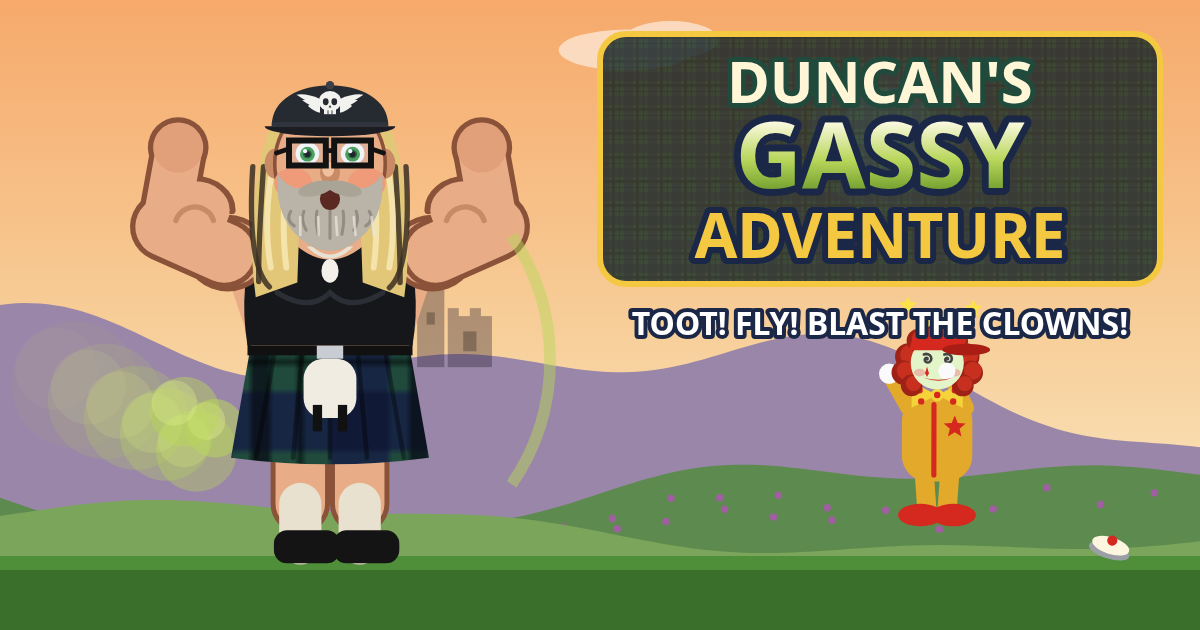
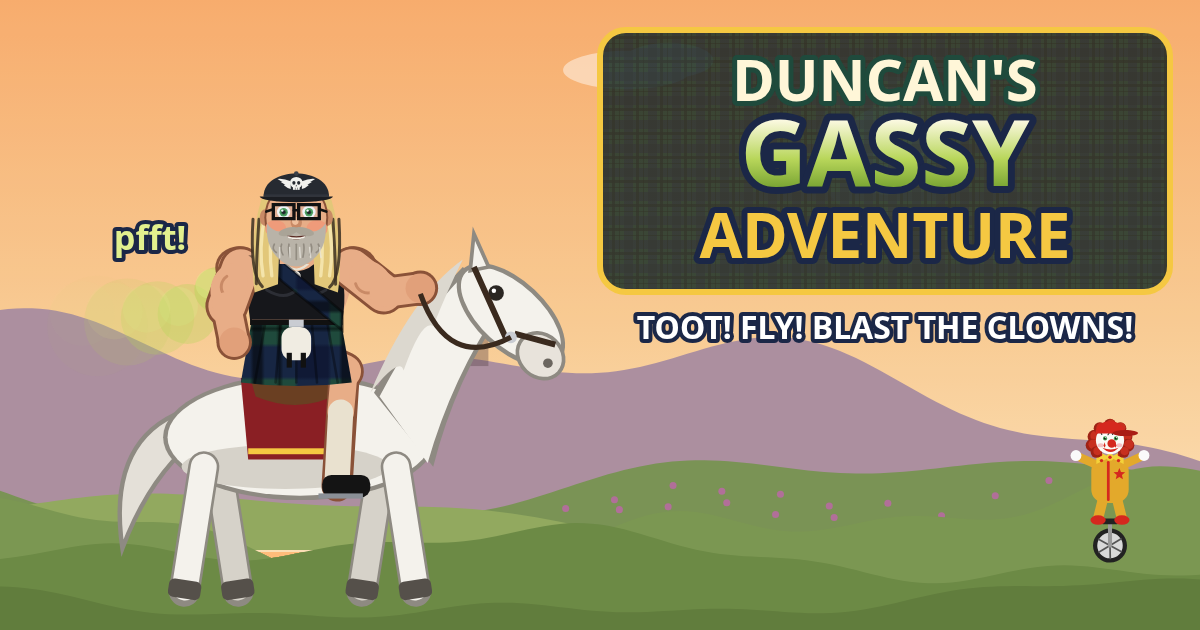
New cover + title art: drawn Duncan on his white horse in Black Watch kilt and tartan sash, highland sunset; sw v4

diff --git a/index.html b/index.html
@@ -84,7 +84,8 @@ function arm(g,sx,sy,a1,a2,side){const L1=11,L2=10,ex=sx+Math.sin(a1)*L1*side,ey
 function drawDuncan(g,x,y,s,o){o=o||{};const t=o.t||0,ph=o.run||0;g.save();g.translate(x,y);g.scale(s*(o.dir||1),s);
  const sw=o.air?0:Math.sin(ph),bob=o.air?0:Math.abs(Math.cos(ph))*1.5;g.translate(0,-bob);
  // legs
- const legs=[[-4.5,sw],[4.5,-sw]];
+ const legs=o.ride?[]:[[-4.5,sw],[4.5,-sw]];
+ if(o.ride){limb(g,2,-22,13,-17,10.5,OUTL);limb(g,13,-17,11,14,8.4,OUTL);limb(g,2,-22,13,-17,9,SKIN);limb(g,13,-17,12,-6,7.2,SKIN);limb(g,12,-6,11,13,6.8,'#e9e1cf');g.fillStyle='#141414';rrect(g,7,11,13,6,2.5);g.fill();g.fillStyle='#8a8f96';g.fillRect(6,16,12,1.4)}
  for(const [lx,a0] of legs){let a=o.air?(o.hover?.25*Math.sin(t*14+lx):.35*(lx>0?1:-1)):a0*.55;const kx=lx+Math.sin(a)*9,ky=-16+Math.cos(a)*9,fx=kx+Math.sin(a*.4)*8,fy=ky+8;
   limb(g,lx,-16,kx,ky,9,OUTL);limb(g,lx,-16,kx,ky,7.5,SKIN);limb(g,kx,ky,fx,fy-2,6.4,'#e9e1cf');g.fillStyle='#141414';rrect(g,fx-4,fy-4,10,5,2);g.fill()}
  // kilt (Black Watch tartan)
@@ -106,7 +107,9 @@ function drawDuncan(g,x,y,s,o){o=o||{};const t=o.t||0,ph=o.run||0;g.save();g.tra
   for(const d of [-1,1]){limb(g,d*16,-45,d*25,-49,10.6,OUTL);limb(g,d*25,-49,d*23,-60,8.6,OUTL);circ(g,d*23,-61,4.6,OUTL);g.strokeStyle=OUTL;g.lineWidth=1.2;g.beginPath();g.ellipse(d*20.5,-51.5,5.6,4.6,0,Math.PI,TAU);g.stroke()}
   for(const d of [-1,1]){limb(g,d*16,-45,d*25,-49,9,SKIN);ell(g,d*20.5,-51.5,5.3,4.4,SKIN);limb(g,d*25,-49,d*23,-60,7,SKIN);circ(g,d*23,-61,3.8,'#e1a07a');g.strokeStyle=SKD;g.lineWidth=.8;g.beginPath();g.arc(d*20.5,-49,3,Math.PI*1.1,Math.PI*1.9);g.stroke()}
  }else if(o.air&&o.hover){arm(g,-15,-45,1.9+Math.sin(t*20)*.3,2.4,-1);arm(g,15,-45,1.9+Math.sin(t*20+1)*.3,2.4,1)}
+ else if(o.ride){arm(g,-15,-45,.35,-.2,-1);arm(g,15,-45,.9,1.7,1)}
  else{arm(g,-15,-45,-sw*.7+.15,-sw*.7-.9,-1);arm(g,15,-45,sw*.7+.15,sw*.7-.9,1)}
+ if(o.sash){g.save();g.fillStyle=tartan(g);g.beginPath();g.moveTo(-12,-48);g.lineTo(-5.5,-48);g.lineTo(12.5,-33);g.lineTo(12.5,-28);g.closePath();g.fill();g.strokeStyle='rgba(0,0,0,.4)';g.lineWidth=.7;g.stroke();circ(g,-8,-46,2.2,'#c9ccd2');g.restore()}
  // neck + head
  g.fillStyle=SKIN;g.fillRect(-4.5,-52,9,6);
  drawHead(g,0,-59,9,{blink:o.blink,puff:fx2||o.puff,mouth:o.hurt?'ow':fx2?'o':o.air?'grin':'smile',hairWave:o.air?Math.sin(t*12)*3:Math.sin(ph)});
@@ -198,6 +201,36 @@ function drawBG(g,W,H,gy,cam,z,bi,t){const B=BIOMES[bi%BIOMES.length];
   const tp=520*z,to=((wo%tp)+tp)%tp;for(let x=-to;x<W+tp;x+=tp){drawTower(g,x,gy,120*z,34*z,B.night?'#2a2f42':'#5f5064');if(B.night){const fl=.6+.4*Math.sin(t*9+x);g.globalAlpha=fl;circ(g,x+17*z,gy-80*z,5*z,'#ffb347');g.globalAlpha=1}
    g.fillStyle=tartan(g);g.fillRect(x+40*z,gy-58*z,18*z,30*z)}}
 }
+
+/* White horse, side view facing right. Hooves at (x,y). */
+function drawHorse(g,x,y,s,t){t=t||0;g.save();g.translate(x,y);g.scale(s,s);const W='#f4f2ec',SH='#d6d2c9',OL='#8e8a82';
+ const step=Math.sin(t*6)*.18;
+ const leg=(lx,a,back)=>{g.save();g.translate(lx,-36);g.rotate(a);g.strokeStyle=OL;g.lineCap='round';g.lineWidth=8.4;g.beginPath();g.moveTo(0,0);g.lineTo(0,34);g.stroke();g.strokeStyle=back?SH:W;g.lineWidth=7;g.beginPath();g.moveTo(0,0);g.lineTo(0,33);g.stroke();g.fillStyle='#55504a';rrect(g,-4.4,31,8.8,5,1.5);g.fill();g.restore()};
+ leg(-22,-step,1);leg(22,step,1);
+ // tail
+ g.fillStyle='#e4e0d8';g.strokeStyle=OL;g.lineWidth=1.2;g.beginPath();g.moveTo(-34,-50);g.quadraticCurveTo(-52,-44+Math.sin(t*3)*3,-48,-14);g.quadraticCurveTo(-42,-30,-32,-40);g.closePath();g.fill();g.stroke();
+ // body
+ ell(g,0,-44,37,17,OL);ell(g,0,-44,35.8,15.8,W);ell(g,-4,-36,28,6,SH);
+ // neck + head
+ g.fillStyle=OL;g.beginPath();g.moveTo(20,-56);g.quadraticCurveTo(32,-78,44,-90);g.lineTo(56,-80);g.quadraticCurveTo(42,-60,36,-36);g.closePath();g.fill();
+ g.fillStyle=W;g.beginPath();g.moveTo(21.5,-55);g.quadraticCurveTo(33,-77,44.5,-88);g.lineTo(54.5,-80);g.quadraticCurveTo(41,-60,34.5,-37);g.closePath();g.fill();
+ ell(g,57,-77,18,9.4,OL,.75);ell(g,57,-77,16.8,8.2,W,.75);ell(g,65,-66,7.2,6.2,OL,.75);ell(g,65,-66,6.2,5.2,'#e8e3db',.75);circ(g,67,-64,1.3,'#6b665f');
+ g.fillStyle=W;g.strokeStyle=OL;g.lineWidth=1;g.beginPath();g.moveTo(46,-89);g.lineTo(47,-99);g.lineTo(51,-90);g.closePath();g.fill();g.stroke();
+ circ(g,53,-83,2.1,'#2a2622');circ(g,52.4,-83.6,.6,'#fff');
+ // mane
+ g.fillStyle='#dcd8cf';g.beginPath();g.moveTo(44,-92);g.quadraticCurveTo(30,-82,19,-56);g.quadraticCurveTo(27,-66,28,-62);g.quadraticCurveTo(33,-76,36,-74);g.quadraticCurveTo(40,-84,44,-92);g.fill();
+ // bridle + reins
+ g.strokeStyle='#3a2a1e';g.lineWidth=1.6;g.beginPath();g.moveTo(47,-90);g.lineTo(56,-70);g.moveTo(58,-72);g.lineTo(69,-69);g.stroke();circ(g,57,-71,1.6,'#c9ccd2');
+ // front legs
+ leg(-26,step,0);leg(26,-step,0);
+ // saddle + tartan blanket
+ g.fillStyle='#8a1f24';g.beginPath();g.moveTo(-16,-60);g.lineTo(14,-60);g.lineTo(12,-38);g.lineTo(-14,-38);g.closePath();g.fill();g.fillStyle='#f5c842';g.fillRect(-14,-41,26,1.6);
+ g.fillStyle='#6a3f22';g.beginPath();g.moveTo(-14,-62);g.quadraticCurveTo(0,-54,13,-63);g.lineTo(11,-56);g.quadraticCurveTo(0,-50,-12,-55);g.closePath();g.fill();
+ g.restore()}
+/* Duncan riding the white horse. Hooves at (x,y). */
+function drawRider(g,x,y,s,t,o){o=o||{};drawHorse(g,x,y,s,t);const b=Math.sin(t*6)*.8;
+ drawDuncan(g,x-1*s,y-44*s+b*s,s,{t,ride:true,sash:true,blink:o.blink,puff:o.puff,flex:o.flex,dir:1});
+ g.strokeStyle='#3a2a1e';g.lineWidth=1.4*s;g.beginPath();g.moveTo(x+(-1+15+Math.sin(.9)*11*1+Math.sin(1.7)*10)*s,y+(-44-45+Math.cos(.9)*11+Math.cos(1.7)*10+b)*s);g.quadraticCurveTo(x+40*s,y-62*s,x+57*s,y-71*s);g.stroke()}
 </script>
 <script>'use strict';
 /* ===== Duncan's Gassy Adventure ===== */
@@ -471,11 +504,11 @@ function logo(cx,y,sc){g.save();g.translate(cx,y);const s1=Math.round(30*sc),s2=
 function sceneBG(bi,gy){gy=gy||GY;const cam=T*40;drawBG(g,W,H,gy,cam,ZS,bi,T);g.fillStyle=BIOMES[bi].gr;g.fillRect(0,gy-3*ZS,W,H);g.fillStyle=BIOMES[bi].dirt;g.fillRect(0,gy+8*ZS,W,H)}
 function drawTitle(){const sc=Math.min(1.25,W/360,H/560);
  if(portrait){const top=safe.t+64;const lh=logo(W/2,top,sc);const btnH=56,gap=12,bw=Math.min(300,W-48),n=4,bTop=H-safe.b-24-n*btnH-(n-1)*gap-28;
-  const dTop=top+lh+10,dBot=bTop-14,ds=clamp((dBot-dTop)/80,1.2,4.2);const dx=W*.42,dy=dTop+(dBot-dTop)*.5+ds*38;
-  sceneBG(0,dy+2);logo(W/2,top,sc);const fl=Math.sin(T*1.3)>.7;if(fl&&Math.random()<.2)puffT(dx-ds*10,dy-ds*6,ds);drawTitlePuffs();drawDuncan(g,dx,dy,ds,{t:T,run:0,flex:fl?1:0,blink:(T%3.4)<.12});drawClown(g,W*.84,dy,ds*.7,{type:'pie',t:T});
+  const dTop=top+lh+10,dBot=bTop-14,ds=clamp(Math.min((dBot-dTop)/128,(W-30)/132),.9,3.4);const dx=W/2-10*ds,dy=dTop+(dBot-dTop)*.5+ds*62;
+  sceneBG(0,dy+2);logo(W/2,top,sc);const fl=Math.sin(T*1.3)>.7;if(fl&&Math.random()<.2)puffT(dx-ds*22,dy-ds*52,ds);drawTitlePuffs();drawRider(g,dx,dy,ds,T*.5,{flex:fl?1:0,puff:fl,blink:(T%3.4)<.12});
   menuBtns.length;titleBtns(W/2-bw/2,bTop,bw,btnH,gap,1)}
- else{sceneBG(0);const lx=W*.62,top=safe.t+18;const lh=logo(lx,top,Math.min(1,H/420));const ds=clamp((H-GY+GY-top-40)/90,1.6,3.6);const dx=Math.max(safe.l+90,W*.2),dy=GY;
-  const fl=Math.sin(T*1.3)>.7;if(fl&&Math.random()<.2)puffT(dx-ds*10,dy-ds*6,ds);drawTitlePuffs();drawDuncan(g,dx,dy,ds*.95,{t:T,run:0,flex:fl?1:0,blink:(T%3.4)<.12});
+ else{sceneBG(0);const lx=W*.62,top=safe.t+18;const lh=logo(lx,top,Math.min(1,H/420));const ds=clamp(Math.min((GY-top-24)/122,(W*.36)/132),1,3);const dx=safe.l+58*ds+8,dy=GY;
+  const fl=Math.sin(T*1.3)>.7;if(fl&&Math.random()<.2)puffT(dx-ds*22,dy-ds*52,ds);drawTitlePuffs();drawRider(g,dx,dy,ds,T*.5,{flex:fl?1:0,puff:fl,blink:(T%3.4)<.12});
   const bw=Math.min(210,(W-safe.r-lx+W*.62-W*.38)/2-20),bh=52,gap=12,bx=lx-bw-gap/2,by=top+lh+16;titleBtns(bx,by,bw,bh,gap,2)}
  const bt='Story best: '+totalBest()+'   ·   Endless best: '+save.eb;g.globalAlpha=.95;txt(bt,W/2,H-safe.b-18,16,'#fff8d0','center','rgba(0,0,0,.6)');g.globalAlpha=1}
 let tPuffs=[];function puffT(x,y,s){tPuffs.push({x,y,s,t:0})}function drawTitlePuffs(){for(const p of tPuffs){p.t+=1/60;drawPuff(g,p.x-p.t*40*p.s,p.y-p.t*20*p.s,(6+p.t*14)*p.s,1-p.t)}tPuffs=tPuffs.filter(p=>p.t<1)}

diff --git a/sw.js b/sw.js
@@ -1,4 +1,4 @@
-const P='duncans-gassy-adventure-',V=P+'v3',FILES=['./','index.html','manifest.json','icon-192.png','icon-512.png'];
+const P='duncans-gassy-adventure-',V=P+'v4',FILES=['./','index.html','manifest.json','icon-192.png','icon-512.png'];
 self.addEventListener('install',e=>{e.waitUntil(caches.open(V).then(c=>c.addAll(FILES)));self.skipWaiting()});
 self.addEventListener('activate',e=>{e.waitUntil(caches.keys().then(k=>Promise.all(k.filter(n=>n!=V&&n.startsWith(P)).map(n=>caches.delete(n)))).then(()=>self.clients.claim()))});
 self.addEventListener('fetch',e=>{if(e.request.method!='GET'||new URL(e.request.url).origin!==location.origin)return;e.respondWith(fetch(e.request).then(r=>{if(r.ok){const cp=r.clone();caches.open(V).then(c=>c.put(e.request,cp))}return r}).catch(()=>caches.open(V).then(c=>c.match(e.request,{ignoreSearch:true}).then(r=>r||(e.request.mode=='navigate'?c.match('./'):undefined)))))});
